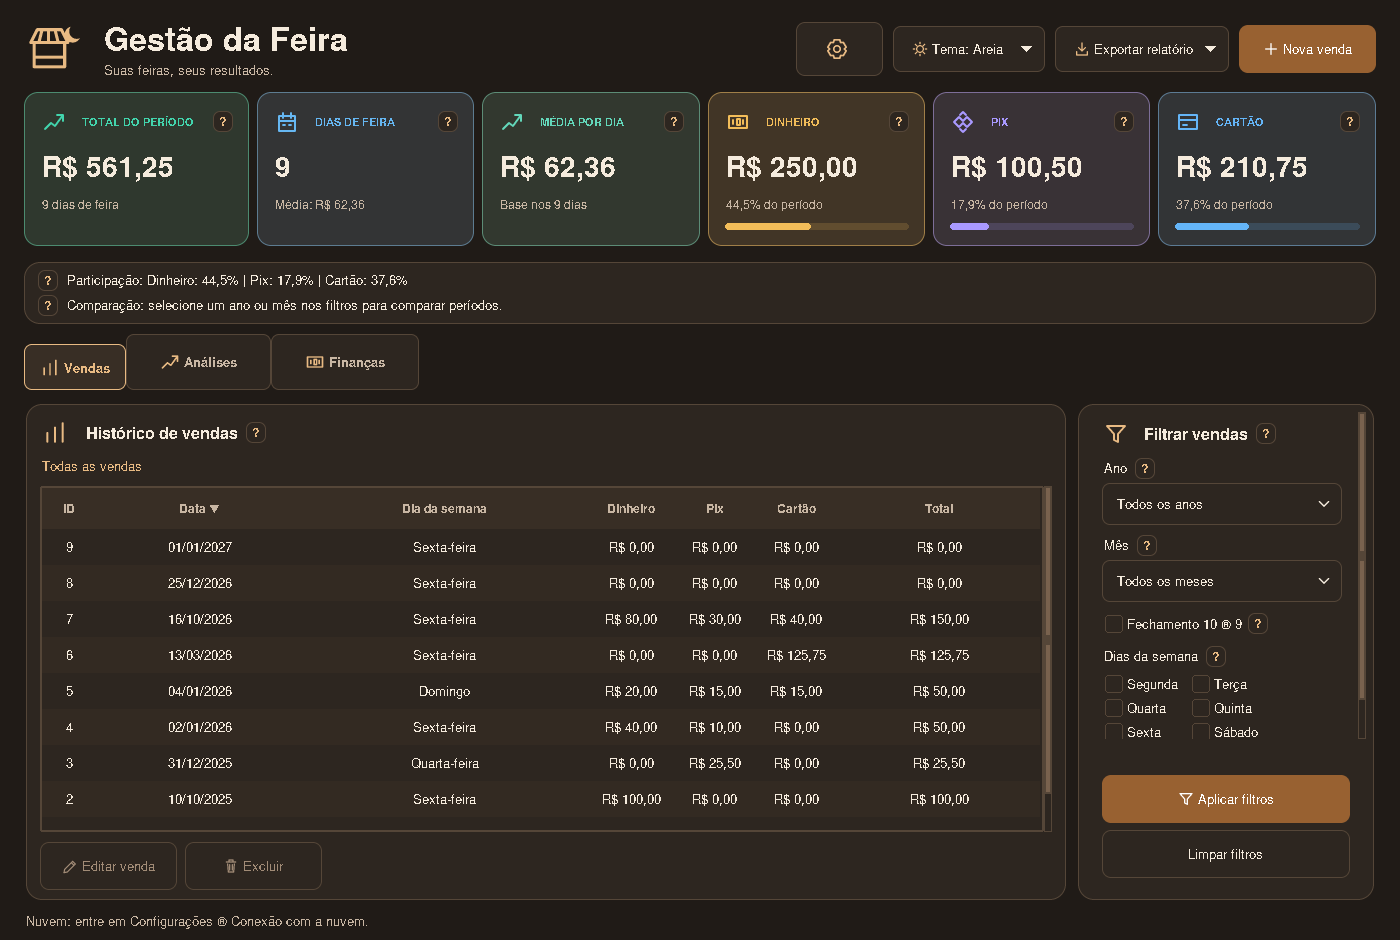
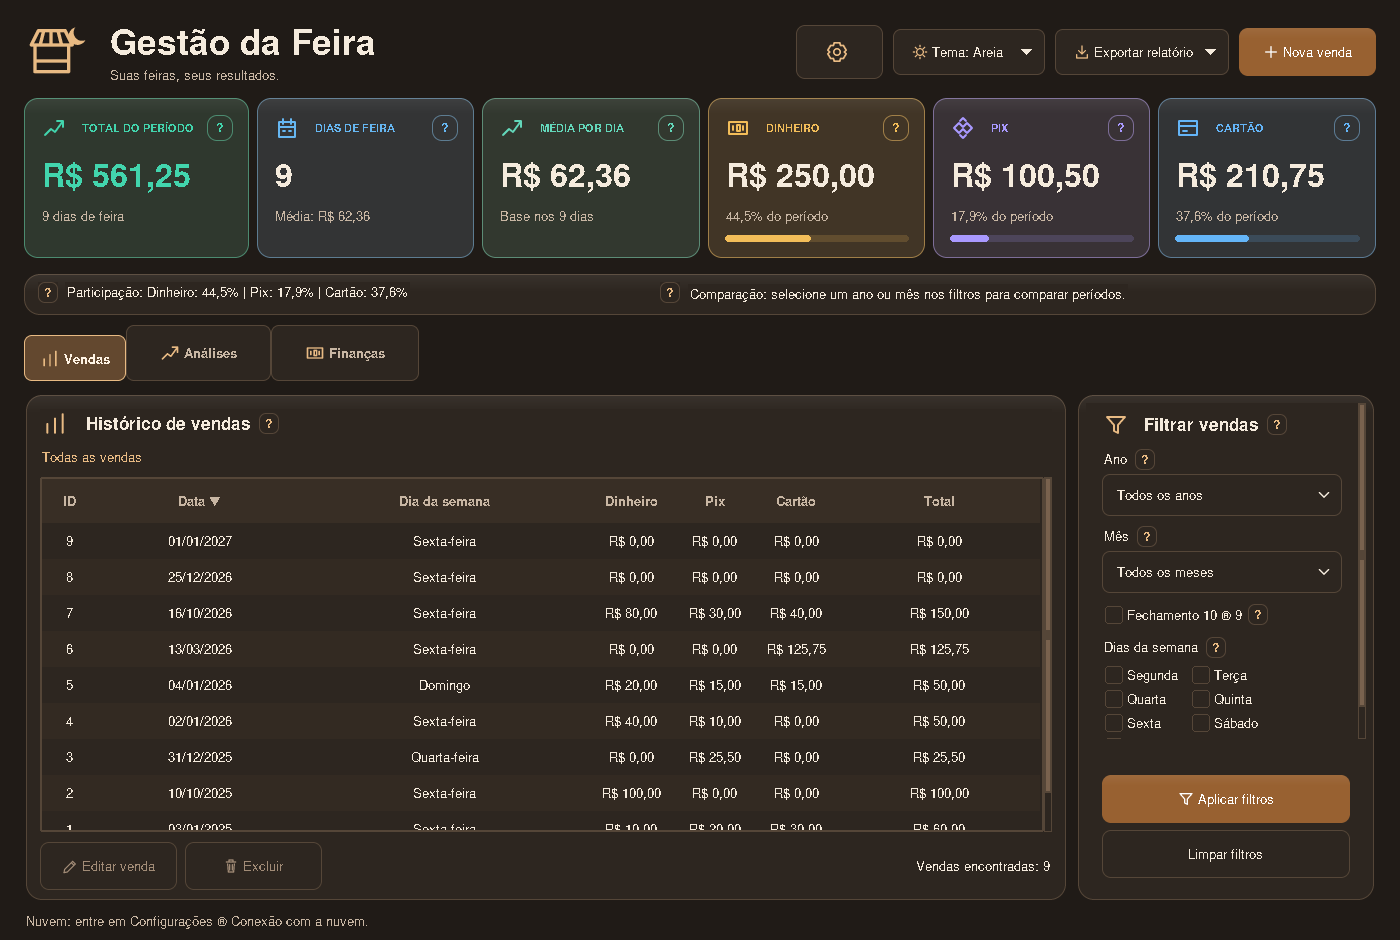
Atualiza somente imagens da segunda rodada de acabamento

diff --git a/previas-temas/README.md b/previas-temas/README.md
@@ -1,8 +1,24 @@
-# Prévias atualizadas
+# Nova rodada de acabamento
 
-Interface real com dados fictícios. Apenas imagens nesta branch; o código em main não foi alterado.
+Capturas reais em 1400 × 940, com dados fictícios. Apenas imagens nesta branch; código em main intacto.
 
-Nova proposta baseada na referência: cartões com cores por indicador, ícones maiores, contexto abaixo dos valores, barras arredondadas de participação, ícones nas abas e cabeçalho reorganizado. Tabela e filtros preservam as funções atuais. Busca, paginação e ações por linha da imagem de referência não foram acrescentadas nesta etapa visual. Capturas em 1400 × 940, com dados fictícios.
+Ajustes desta rodada: totais maiores e destaque colorido no faturamento, relevo sutil na borda superior, ajudas dos cartões com contornos por indicador, abas com seleção mais evidente, cabeçalho da tabela mais legível e contagem dos registros ao lado das ações. Em janelas largas, participação e comparação ficam lado a lado; em janelas menores, voltam a duas linhas.
+
+## Comparação com a rodada anterior
+
+### Antes
+
+![Grafite anterior](grafite-anterior.png)
+
+### Agora
+
+![Grafite atual](grafite.png)
+
+### Seleção de uma venda
+
+![Seleção e ações habilitadas](grafite-selecao.png)
+
+## Os cinco temas
 
 ## Noite
 
